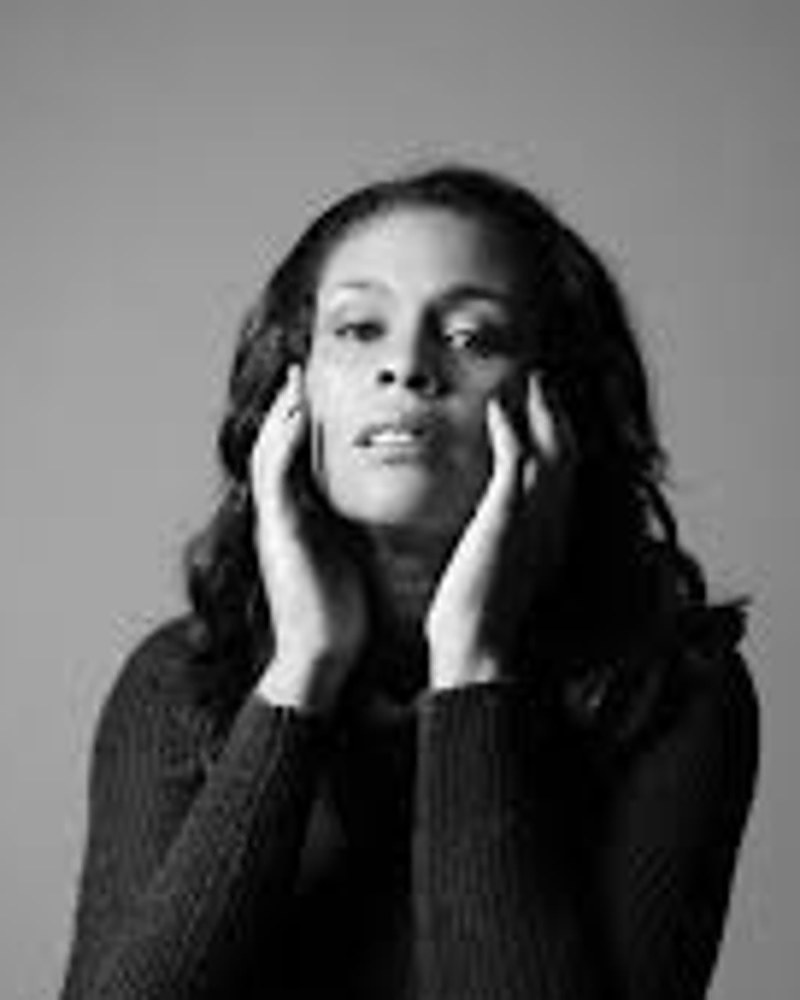
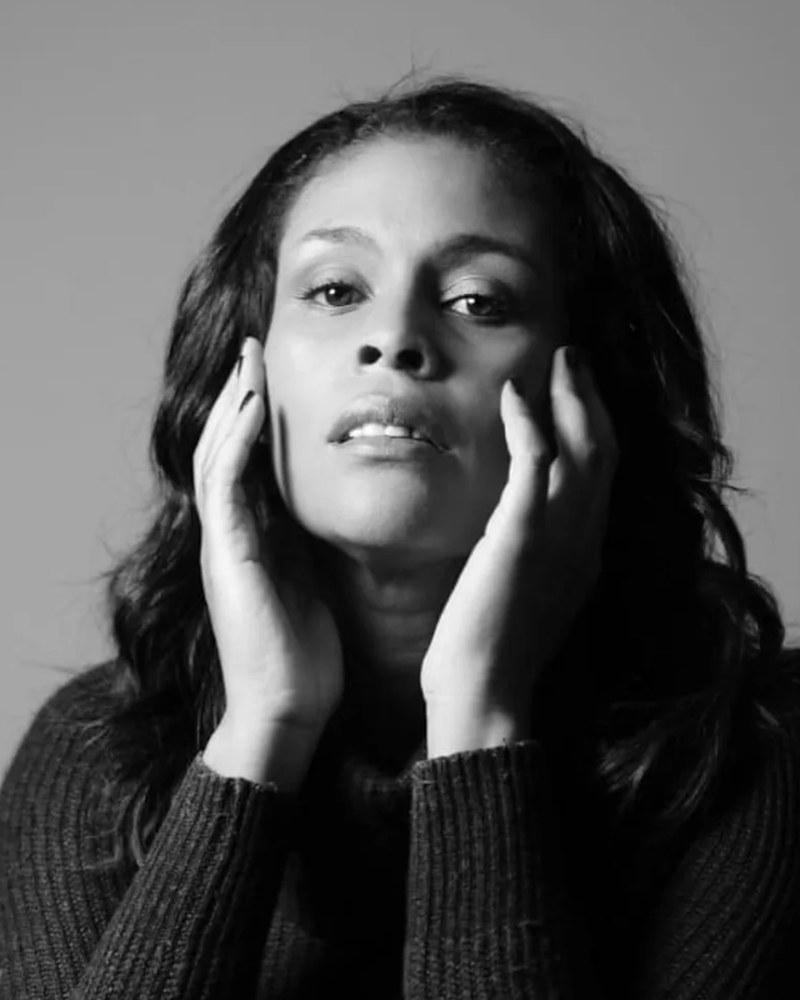
Medianeros: sharper cast photos for Alvarielys and Sheila; panoramic making frames
Claude-Session: https://claude.ai/code/session_01Ha9bAYoxGEnSstq6BWqKwK

diff --git a/projects/medianeros/index.html b/projects/medianeros/index.html
@@ -11,9 +11,9 @@
 <link rel="preconnect" href="https://fonts.googleapis.com">
 <link rel="preconnect" href="https://fonts.gstatic.com" crossorigin>
 <link rel="stylesheet" href="https://fonts.googleapis.com/css2?family=Cinzel:wght@500;600&family=Cormorant+Garamond:ital,wght@0,500;1,400;1,500&family=Cormorant+SC:wght@500;600;700&family=Jost:wght@400;500;600&display=swap">
-<link rel="stylesheet" href="../../assets/project.css?v=be0ad988">
-<script src="../../assets/i18n.js?v=be0ad988" defer></script>
-<script src="../../assets/search.js?v=be0ad988" defer></script>
+<link rel="stylesheet" href="../../assets/project.css?v=9dfbe252">
+<script src="../../assets/i18n.js?v=9dfbe252" defer></script>
+<script src="../../assets/search.js?v=9dfbe252" defer></script>
 </head>
 <body>
 <header class="nav">
@@ -56,7 +56,7 @@
 
   <section class="cast" id="cast" aria-labelledby="cast-h"><div class="wrap"><div class="sec-h"><h2 id="cast-h">Cast</h2><p>4 actors</p></div><div class="people" style="--cols:4"><figure class="person"><div class="ph"><img src="../../img/medianeros/cast-alvarielys.jpg" alt="Alvarielys Castro" loading="lazy"></div><figcaption>Alvarielys Castro<span class="as">Teresa</span></figcaption></figure><figure class="person"><div class="ph"><img src="../../img/medianeros/cast-ender.jpg" alt="Ender Camacho" loading="lazy"></div><figcaption>Ender Camacho<span class="as">Antonio</span></figcaption></figure><figure class="person"><div class="ph"><img src="../../img/medianeros/cast-pedro.jpg" alt="Pedro Armando Medina" loading="lazy"></div><figcaption>Pedro Armando Medina<span class="as">José</span></figcaption></figure><figure class="person"><div class="ph"><img src="../../img/medianeros/cast-sheila.jpg" alt="Sheila Monterola" loading="lazy"></div><figcaption>Sheila Monterola<span class="as">Luisa</span></figcaption></figure></div></div></section>
 
-  <section class="making" id="making" aria-labelledby="mk-h"><div class="wrap"><div class="sec-h"><h2 id="mk-h">The making</h2><p>From the director’s pitch</p></div><article class="ch n1"><header><span class="no" aria-hidden="true">01</span><h3>Cinematography</h3><p class="txt">Lit by candle and fire inside the hut, with nineteenth-century rural painting as the visual reference.</p></header><div class="pics"><button type="button" data-full="../../img/medianeros/bts-camera.jpg" data-alt="Cinematography · Medianeros"><img src="../../img/medianeros/bts-camera.jpg" alt="Cinematography · Medianeros" loading="lazy"></button></div></article><article class="ch n2"><header><span class="no" aria-hidden="true">02</span><h3>Frames from the shoot</h3><p class="sub">INT. Hut – Night</p></header><div class="pics"><button type="button" data-full="../../img/medianeros/frame-1.jpg" data-alt="Frames from the shoot · Medianeros"><img src="../../img/medianeros/frame-1.jpg" alt="Frames from the shoot · Medianeros" loading="lazy"></button><button type="button" data-full="../../img/medianeros/frame-3.jpg" data-alt="Frames from the shoot · Medianeros"><img src="../../img/medianeros/frame-3.jpg" alt="Frames from the shoot · Medianeros" loading="lazy"></button></div></article><article class="ch n3"><header><span class="no" aria-hidden="true">03</span><h3>Art direction</h3><p class="txt">The hut was drawn on paper and built as a set: a single room of 6 by 4.5 metres. Costume and props follow the rural Andes of 1821.</p></header><div class="pics"><button type="button" data-full="../../img/medianeros/set-build.jpg" data-alt="Art direction · Medianeros"><img src="../../img/medianeros/set-build.jpg" alt="Art direction · Medianeros" loading="lazy"></button><button type="button" data-full="../../img/medianeros/floor-plan.jpg" data-alt="Art direction · Medianeros"><img src="../../img/medianeros/floor-plan.jpg" alt="Art direction · Medianeros" loading="lazy"></button><button type="button" data-full="../../img/medianeros/costume.jpg" data-alt="Art direction · Medianeros"><img src="../../img/medianeros/costume.jpg" alt="Art direction · Medianeros" loading="lazy"></button></div></article><article class="ch solo n0"><header><span class="no" aria-hidden="true">04</span><h3>Sound and atmosphere</h3><p class="txt">An immersive atmosphere where the soundscape works as an extension of the character&#x27;s inner world. By bringing forward incidental sounds and the detail of nature, the surroundings stop being a backdrop and become a massive presence that deepens the helplessness and the fragility of the shelter against the size of the world outside.</p></header></article><article class="ch n4"><header><span class="no" aria-hidden="true">05</span><h3>Locations</h3><p class="sub">Exteriors · Lobatera and Cada del Padre, Táchira</p></header><div class="pics"><button type="button" data-full="../../img/medianeros/loc-2.jpg" data-alt="Locations · Medianeros"><img src="../../img/medianeros/loc-2.jpg" alt="Locations · Medianeros" loading="lazy"></button><button type="button" data-full="../../img/medianeros/loc-1.jpg" data-alt="Locations · Medianeros"><img src="../../img/medianeros/loc-1.jpg" alt="Locations · Medianeros" loading="lazy"></button><button type="button" data-full="../../img/medianeros/loc-3.jpg" data-alt="Locations · Medianeros"><img src="../../img/medianeros/loc-3.jpg" alt="Locations · Medianeros" loading="lazy"></button><button type="button" data-full="../../img/medianeros/loc-4.jpg" data-alt="Locations · Medianeros"><img src="../../img/medianeros/loc-4.jpg" alt="Locations · Medianeros" loading="lazy"></button></div></article></div></section>
+  <section class="making" id="making" aria-labelledby="mk-h"><div class="wrap"><div class="sec-h"><h2 id="mk-h">The making</h2><p>From the director’s pitch</p></div><article class="ch n1"><header><span class="no" aria-hidden="true">01</span><h3>Cinematography</h3><p class="txt">Lit by candle and fire inside the hut, with nineteenth-century rural painting as the visual reference.</p></header><div class="pics"><button type="button" data-full="../../img/medianeros/bts-camera.jpg" data-alt="Cinematography · Medianeros"><img src="../../img/medianeros/bts-camera.jpg" alt="Cinematography · Medianeros" loading="lazy"></button></div></article><article class="ch n2"><header><span class="no" aria-hidden="true">02</span><h3>Frames from the shoot</h3><p class="sub">INT. Hut – Night</p></header><div class="pics"><button type="button" data-full="../../img/medianeros/frame-1.jpg" data-alt="Frames from the shoot · Medianeros"><img src="../../img/medianeros/frame-1.jpg" alt="Frames from the shoot · Medianeros" loading="lazy"></button><button type="button" data-full="../../img/medianeros/frame-3.jpg" data-alt="Frames from the shoot · Medianeros"><img src="../../img/medianeros/frame-3.jpg" alt="Frames from the shoot · Medianeros" loading="lazy"></button></div></article><article class="ch n3"><header><span class="no" aria-hidden="true">03</span><h3>Art direction</h3><p class="txt">The hut was drawn on paper and built as a set: a single room of 6 by 4.5 metres. Costume and props follow the rural Andes of 1821.</p></header><div class="pics"><button type="button" data-full="../../img/medianeros/set-build.jpg" data-alt="Art direction · Medianeros"><img src="../../img/medianeros/set-build.jpg" alt="Art direction · Medianeros" loading="lazy"></button><button type="button" data-full="../../img/medianeros/floor-plan.jpg" data-alt="Art direction · Medianeros"><img src="../../img/medianeros/floor-plan.jpg" alt="Art direction · Medianeros" loading="lazy" style="object-position:50% 50%"></button><button type="button" data-full="../../img/medianeros/costume.jpg" data-alt="Art direction · Medianeros"><img src="../../img/medianeros/costume.jpg" alt="Art direction · Medianeros" loading="lazy" style="object-position:50% 30%"></button></div></article><article class="ch solo n0"><header><span class="no" aria-hidden="true">04</span><h3>Sound and atmosphere</h3><p class="txt">An immersive atmosphere where the soundscape works as an extension of the character&#x27;s inner world. By bringing forward incidental sounds and the detail of nature, the surroundings stop being a backdrop and become a massive presence that deepens the helplessness and the fragility of the shelter against the size of the world outside.</p></header></article><article class="ch n4"><header><span class="no" aria-hidden="true">05</span><h3>Locations</h3><p class="sub">Exteriors · Lobatera and Cada del Padre, Táchira</p></header><div class="pics"><button type="button" data-full="../../img/medianeros/loc-2.jpg" data-alt="Locations · Medianeros"><img src="../../img/medianeros/loc-2.jpg" alt="Locations · Medianeros" loading="lazy"></button><button type="button" data-full="../../img/medianeros/loc-1.jpg" data-alt="Locations · Medianeros"><img src="../../img/medianeros/loc-1.jpg" alt="Locations · Medianeros" loading="lazy"></button><button type="button" data-full="../../img/medianeros/loc-3.jpg" data-alt="Locations · Medianeros"><img src="../../img/medianeros/loc-3.jpg" alt="Locations · Medianeros" loading="lazy"></button><button type="button" data-full="../../img/medianeros/loc-4.jpg" data-alt="Locations · Medianeros"><img src="../../img/medianeros/loc-4.jpg" alt="Locations · Medianeros" loading="lazy"></button></div></article></div></section>
 
   <section class="pquote" aria-label="Epigraph"><div class="wrap"><blockquote data-i18n-skip data-en="“Without memory there is no identity, and without identity there is no future.”">“Without memory there is no identity, and without identity there is no future.”</blockquote><p class="by">Arturo Uslar Pietri</p></div></section>
 
@@ -94,6 +94,6 @@
 
 <dialog id="player" aria-label="Trailer"><button class="x" type="button" aria-label="Close">×</button><div class="box"><div class="frame"><iframe title="Trailer for Medianeros" allow="autoplay; encrypted-media; fullscreen" allowfullscreen src="about:blank"></iframe></div></div></dialog>
 <dialog id="viewer" aria-label="Image viewer"><button class="x" type="button" aria-label="Close">×</button><button class="arr l" type="button" aria-label="Previous image">‹</button><button class="arr r" type="button" aria-label="Next image">›</button><div class="box"><img class="shot" src="" alt=""></div></dialog>
-<script src="../../assets/project.js?v=be0ad988"></script>
+<script src="../../assets/project.js?v=9dfbe252"></script>
 </body>
 </html>

diff --git a/assets/project.css b/assets/project.css
@@ -208,24 +208,25 @@ footer{background:var(--ink);color:var(--grey);font-size:12px;padding-block:44px
 /* the making: pitch chapters */
 .story blockquote.long{font-size:clamp(24px,2.5vw,34px);line-height:1.28;max-width:40ch}
 .making{padding-block:120px 60px;border-top:1px solid var(--hair)}
-.making .ch{display:grid;grid-template-columns:minmax(0,4fr) minmax(0,8fr);gap:56px;align-items:start;padding-block:56px;border-top:1px solid var(--hair)}
+.making .ch{display:grid;grid-template-columns:minmax(0,5fr) minmax(0,7fr);gap:28px 56px;align-items:end;padding-block:64px;border-top:1px solid var(--hair)}
 .making .ch:first-of-type{border-top:0;padding-top:0}
-.making header{display:grid;gap:14px;position:sticky;top:110px}
+.making header{display:contents}
+.making header > .no,.making header > h3,.making header > .sub{grid-column:1}
+.making header > .txt{grid-column:2;grid-row:1 / span 3;align-self:end;max-width:56ch}
 .making .no{font-size:11px;font-weight:600;letter-spacing:.24em;color:var(--red)}
 .making h3{margin:0;font-family:var(--poster);font-weight:500;font-size:clamp(24px,2.4vw,34px);letter-spacing:.1em;text-transform:uppercase;line-height:1.05}
 .making .sub{margin:0;font-size:12px;letter-spacing:.16em;text-transform:uppercase;color:var(--grey)}
-.making .txt{margin:6px 0 0;font-family:var(--voice);font-size:clamp(20px,1.7vw,24px);line-height:1.4;color:#d9d9de}
-.making .ch.solo{grid-template-columns:minmax(0,1fr)}
-.making .ch.solo header{position:static;max-width:860px}
-.making .ch.solo .txt{font-style:italic;font-size:clamp(24px,2.6vw,36px);line-height:1.3;color:var(--white)}
-.making .pics{display:grid;grid-template-columns:1fr 1fr;gap:12px}
-.making .pics button{padding:0;border:0;background:var(--tile);cursor:zoom-in;overflow:hidden;aspect-ratio:4/3}
+.making .txt{margin:0;font-family:var(--voice);font-size:clamp(20px,1.7vw,24px);line-height:1.4;color:#d9d9de}
+.making .ch.solo .txt{font-style:italic;font-size:clamp(22px,2.2vw,32px);line-height:1.32;color:var(--white)}
+/* the frames run wider than the text column, in scope */
+.making .pics{grid-column:1 / -1;display:grid;grid-template-columns:1fr 1fr;gap:10px;margin-top:8px;margin-inline:calc(-1 * min(6vw, 90px))}
+.making .pics button{padding:0;border:0;background:var(--tile);cursor:zoom-in;overflow:hidden;aspect-ratio:2/1}
 .making .pics img{width:100%;height:100%;object-fit:cover;display:block;transition:transform .8s cubic-bezier(.2,.7,.2,1),filter .5s}
 .making .pics button:hover img{transform:scale(1.03)}
 .making .n1 .pics{grid-template-columns:1fr}
-.making .n1 .pics button{aspect-ratio:16/9}
-.making .n3 .pics button:first-child,.making .n4 .pics button:first-child{grid-column:1/-1;aspect-ratio:16/8}
+.making .n1 .pics button,.making .n3 .pics button:first-child,.making .n4 .pics button:first-child{grid-column:1/-1;aspect-ratio:2.39/1}
 .making .n4 .pics{grid-template-columns:1fr 1fr 1fr}
+.making .n4 .pics button:not(:first-child){aspect-ratio:16/9}
 .pquote{padding-block:140px;text-align:center;background:radial-gradient(60% 80% at 50% 50%,rgba(255,140,40,.08),transparent 70%)}
 .pquote blockquote{margin:0 auto;max-width:22ch;font-family:var(--voice);font-style:italic;font-size:clamp(30px,4.2vw,58px);line-height:1.15}
 .pquote .by{margin:28px 0 0;font-size:12px;letter-spacing:.24em;text-transform:uppercase;color:var(--red)}
@@ -266,8 +267,10 @@ img.px{transform:translateY(var(--py,0)) scale(1.14);will-change:transform}
 .mo .pquote .w.on{opacity:1}
 @media (prefers-reduced-motion:reduce){img.px{transform:none}.p-hero .bg img{animation:none}}
 @media (max-width:900px){
-  .making .ch{grid-template-columns:1fr;gap:28px;padding-block:44px}
-  .making header{position:static}
+  .making .ch{grid-template-columns:1fr;gap:16px;padding-block:44px}
+  .making header > .txt{grid-column:1;grid-row:auto;margin-top:8px}
+  .making .pics{margin-inline:calc(-1 * var(--gl)) calc(-1 * var(--gr));gap:6px}
+  .making .pics button{aspect-ratio:16/9}
   .making .n4 .pics{grid-template-columns:1fr 1fr}
   .pquote{padding-block:100px}
 }

diff --git a/projects/nothing-i-havent-dreamt-of/index.html b/projects/nothing-i-havent-dreamt-of/index.html
@@ -11,9 +11,9 @@
 <link rel="preconnect" href="https://fonts.googleapis.com">
 <link rel="preconnect" href="https://fonts.gstatic.com" crossorigin>
 <link rel="stylesheet" href="https://fonts.googleapis.com/css2?family=Cinzel:wght@500;600&family=Cormorant+Garamond:ital,wght@0,500;1,400;1,500&family=Cormorant+SC:wght@500;600;700&family=Jost:wght@400;500;600&display=swap">
-<link rel="stylesheet" href="../../assets/project.css?v=be0ad988">
-<script src="../../assets/i18n.js?v=be0ad988" defer></script>
-<script src="../../assets/search.js?v=be0ad988" defer></script>
+<link rel="stylesheet" href="../../assets/project.css?v=9dfbe252">
+<script src="../../assets/i18n.js?v=9dfbe252" defer></script>
+<script src="../../assets/search.js?v=9dfbe252" defer></script>
 </head>
 <body>
 <header class="nav">
@@ -114,6 +114,6 @@
 
 <dialog id="player" aria-label="Trailer"><button class="x" type="button" aria-label="Close">×</button><div class="box"><div class="frame"><iframe title="Trailer for Nothing I Haven&#x27;t Dreamt Of" allow="autoplay; encrypted-media; fullscreen" allowfullscreen src="about:blank"></iframe></div></div></dialog>
 <dialog id="viewer" aria-label="Image viewer"><button class="x" type="button" aria-label="Close">×</button><button class="arr l" type="button" aria-label="Previous image">‹</button><button class="arr r" type="button" aria-label="Next image">›</button><div class="box"><img class="shot" src="" alt=""></div></dialog>
-<script src="../../assets/project.js?v=be0ad988"></script>
+<script src="../../assets/project.js?v=9dfbe252"></script>
 </body>
 </html>

diff --git a/projects/the-woman-in-the-other-room/index.html b/projects/the-woman-in-the-other-room/index.html
@@ -11,9 +11,9 @@
 <link rel="preconnect" href="https://fonts.googleapis.com">
 <link rel="preconnect" href="https://fonts.gstatic.com" crossorigin>
 <link rel="stylesheet" href="https://fonts.googleapis.com/css2?family=Cinzel:wght@500;600&family=Cormorant+Garamond:ital,wght@0,500;1,400;1,500&family=Cormorant+SC:wght@500;600;700&family=Jost:wght@400;500;600&display=swap">
-<link rel="stylesheet" href="../../assets/project.css?v=be0ad988">
-<script src="../../assets/i18n.js?v=be0ad988" defer></script>
-<script src="../../assets/search.js?v=be0ad988" defer></script>
+<link rel="stylesheet" href="../../assets/project.css?v=9dfbe252">
+<script src="../../assets/i18n.js?v=9dfbe252" defer></script>
+<script src="../../assets/search.js?v=9dfbe252" defer></script>
 </head>
 <body>
 <header class="nav">
@@ -94,6 +94,6 @@
 
 <dialog id="player" aria-label="Trailer"><button class="x" type="button" aria-label="Close">×</button><div class="box"><div class="frame"><iframe title="Trailer for The Woman in the Other Room" allow="autoplay; encrypted-media; fullscreen" allowfullscreen src="about:blank"></iframe></div></div></dialog>
 <dialog id="viewer" aria-label="Image viewer"><button class="x" type="button" aria-label="Close">×</button><button class="arr l" type="button" aria-label="Previous image">‹</button><button class="arr r" type="button" aria-label="Next image">›</button><div class="box"><img class="shot" src="" alt=""></div></dialog>
-<script src="../../assets/project.js?v=be0ad988"></script>
+<script src="../../assets/project.js?v=9dfbe252"></script>
 </body>
 </html>

diff --git a/projects/beneath-the-enchanted-tree/index.html b/projects/beneath-the-enchanted-tree/index.html
@@ -11,9 +11,9 @@
 <link rel="preconnect" href="https://fonts.googleapis.com">
 <link rel="preconnect" href="https://fonts.gstatic.com" crossorigin>
 <link rel="stylesheet" href="https://fonts.googleapis.com/css2?family=Cinzel:wght@500;600&family=Cormorant+Garamond:ital,wght@0,500;1,400;1,500&family=Cormorant+SC:wght@500;600;700&family=Jost:wght@400;500;600&display=swap">
-<link rel="stylesheet" href="../../assets/project.css?v=be0ad988">
-<script src="../../assets/i18n.js?v=be0ad988" defer></script>
-<script src="../../assets/search.js?v=be0ad988" defer></script>
+<link rel="stylesheet" href="../../assets/project.css?v=9dfbe252">
+<script src="../../assets/i18n.js?v=9dfbe252" defer></script>
+<script src="../../assets/search.js?v=9dfbe252" defer></script>
 </head>
 <body>
 <header class="nav">
@@ -94,6 +94,6 @@
 
 <dialog id="player" aria-label="Trailer"><button class="x" type="button" aria-label="Close">×</button><div class="box"><div class="frame"><iframe title="Trailer for Beneath the Enchanted Tree" allow="autoplay; encrypted-media; fullscreen" allowfullscreen src="about:blank"></iframe></div></div></dialog>
 <dialog id="viewer" aria-label="Image viewer"><button class="x" type="button" aria-label="Close">×</button><button class="arr l" type="button" aria-label="Previous image">‹</button><button class="arr r" type="button" aria-label="Next image">›</button><div class="box"><img class="shot" src="" alt=""></div></dialog>
-<script src="../../assets/project.js?v=be0ad988"></script>
+<script src="../../assets/project.js?v=9dfbe252"></script>
 </body>
 </html>

diff --git a/projects/apres-la-femme-fatale/index.html b/projects/apres-la-femme-fatale/index.html
@@ -11,9 +11,9 @@
 <link rel="preconnect" href="https://fonts.googleapis.com">
 <link rel="preconnect" href="https://fonts.gstatic.com" crossorigin>
 <link rel="stylesheet" href="https://fonts.googleapis.com/css2?family=Cinzel:wght@500;600&family=Cormorant+Garamond:ital,wght@0,500;1,400;1,500&family=Cormorant+SC:wght@500;600;700&family=Jost:wght@400;500;600&display=swap">
-<link rel="stylesheet" href="../../assets/project.css?v=be0ad988">
-<script src="../../assets/i18n.js?v=be0ad988" defer></script>
-<script src="../../assets/search.js?v=be0ad988" defer></script>
+<link rel="stylesheet" href="../../assets/project.css?v=9dfbe252">
+<script src="../../assets/i18n.js?v=9dfbe252" defer></script>
+<script src="../../assets/search.js?v=9dfbe252" defer></script>
 </head>
 <body>
 <header class="nav">
@@ -94,6 +94,6 @@
 
 <dialog id="player" aria-label="Trailer"><button class="x" type="button" aria-label="Close">×</button><div class="box"><div class="frame"><iframe title="Trailer for Après la Femme Fatale" allow="autoplay; encrypted-media; fullscreen" allowfullscreen src="about:blank"></iframe></div></div></dialog>
 <dialog id="viewer" aria-label="Image viewer"><button class="x" type="button" aria-label="Close">×</button><button class="arr l" type="button" aria-label="Previous image">‹</button><button class="arr r" type="button" aria-label="Next image">›</button><div class="box"><img class="shot" src="" alt=""></div></dialog>
-<script src="../../assets/project.js?v=be0ad988"></script>
+<script src="../../assets/project.js?v=9dfbe252"></script>
 </body>
 </html>

diff --git a/projects/runway-night-heroines/index.html b/projects/runway-night-heroines/index.html
@@ -11,9 +11,9 @@
 <link rel="preconnect" href="https://fonts.googleapis.com">
 <link rel="preconnect" href="https://fonts.gstatic.com" crossorigin>
 <link rel="stylesheet" href="https://fonts.googleapis.com/css2?family=Cinzel:wght@500;600&family=Cormorant+Garamond:ital,wght@0,500;1,400;1,500&family=Cormorant+SC:wght@500;600;700&family=Jost:wght@400;500;600&display=swap">
-<link rel="stylesheet" href="../../assets/project.css?v=be0ad988">
-<script src="../../assets/i18n.js?v=be0ad988" defer></script>
-<script src="../../assets/search.js?v=be0ad988" defer></script>
+<link rel="stylesheet" href="../../assets/project.css?v=9dfbe252">
+<script src="../../assets/i18n.js?v=9dfbe252" defer></script>
+<script src="../../assets/search.js?v=9dfbe252" defer></script>
 </head>
 <body>
 <header class="nav">
@@ -94,6 +94,6 @@
 
 <dialog id="player" aria-label="Trailer"><button class="x" type="button" aria-label="Close">×</button><div class="box"><div class="frame"><iframe title="Trailer for Runway Night: Heroines" allow="autoplay; encrypted-media; fullscreen" allowfullscreen src="about:blank"></iframe></div></div></dialog>
 <dialog id="viewer" aria-label="Image viewer"><button class="x" type="button" aria-label="Close">×</button><button class="arr l" type="button" aria-label="Previous image">‹</button><button class="arr r" type="button" aria-label="Next image">›</button><div class="box"><img class="shot" src="" alt=""></div></dialog>
-<script src="../../assets/project.js?v=be0ad988"></script>
+<script src="../../assets/project.js?v=9dfbe252"></script>
 </body>
 </html>

diff --git a/projects/big-band-banana/index.html b/projects/big-band-banana/index.html
@@ -11,9 +11,9 @@
 <link rel="preconnect" href="https://fonts.googleapis.com">
 <link rel="preconnect" href="https://fonts.gstatic.com" crossorigin>
 <link rel="stylesheet" href="https://fonts.googleapis.com/css2?family=Cinzel:wght@500;600&family=Cormorant+Garamond:ital,wght@0,500;1,400;1,500&family=Cormorant+SC:wght@500;600;700&family=Jost:wght@400;500;600&display=swap">
-<link rel="stylesheet" href="../../assets/project.css?v=be0ad988">
-<script src="../../assets/i18n.js?v=be0ad988" defer></script>
-<script src="../../assets/search.js?v=be0ad988" defer></script>
+<link rel="stylesheet" href="../../assets/project.css?v=9dfbe252">
+<script src="../../assets/i18n.js?v=9dfbe252" defer></script>
+<script src="../../assets/search.js?v=9dfbe252" defer></script>
 </head>
 <body>
 <header class="nav">
@@ -94,6 +94,6 @@
 
 <dialog id="player" aria-label="Trailer"><button class="x" type="button" aria-label="Close">×</button><div class="box"><div class="frame"><iframe title="Trailer for Big Band Banana" allow="autoplay; encrypted-media; fullscreen" allowfullscreen src="about:blank"></iframe></div></div></dialog>
 <dialog id="viewer" aria-label="Image viewer"><button class="x" type="button" aria-label="Close">×</button><button class="arr l" type="button" aria-label="Previous image">‹</button><button class="arr r" type="button" aria-label="Next image">›</button><div class="box"><img class="shot" src="" alt=""></div></dialog>
-<script src="../../assets/project.js?v=be0ad988"></script>
+<script src="../../assets/project.js?v=9dfbe252"></script>
 </body>
 </html>

diff --git a/projects/loving-as-we-do/index.html b/projects/loving-as-we-do/index.html
@@ -11,9 +11,9 @@
 <link rel="preconnect" href="https://fonts.googleapis.com">
 <link rel="preconnect" href="https://fonts.gstatic.com" crossorigin>
 <link rel="stylesheet" href="https://fonts.googleapis.com/css2?family=Cinzel:wght@500;600&family=Cormorant+Garamond:ital,wght@0,500;1,400;1,500&family=Cormorant+SC:wght@500;600;700&family=Jost:wght@400;500;600&display=swap">
-<link rel="stylesheet" href="../../assets/project.css?v=be0ad988">
-<script src="../../assets/i18n.js?v=be0ad988" defer></script>
-<script src="../../assets/search.js?v=be0ad988" defer></script>
+<link rel="stylesheet" href="../../assets/project.css?v=9dfbe252">
+<script src="../../assets/i18n.js?v=9dfbe252" defer></script>
+<script src="../../assets/search.js?v=9dfbe252" defer></script>
 </head>
 <body>
 <header class="nav">
@@ -94,6 +94,6 @@
 
 <dialog id="player" aria-label="Trailer"><button class="x" type="button" aria-label="Close">×</button><div class="box"><div class="frame"><iframe title="Trailer for Loving As We Do" allow="autoplay; encrypted-media; fullscreen" allowfullscreen src="about:blank"></iframe></div></div></dialog>
 <dialog id="viewer" aria-label="Image viewer"><button class="x" type="button" aria-label="Close">×</button><button class="arr l" type="button" aria-label="Previous image">‹</button><button class="arr r" type="button" aria-label="Next image">›</button><div class="box"><img class="shot" src="" alt=""></div></dialog>
-<script src="../../assets/project.js?v=be0ad988"></script>
+<script src="../../assets/project.js?v=9dfbe252"></script>
 </body>
 </html>

diff --git a/projects/in-silence/index.html b/projects/in-silence/index.html
@@ -11,9 +11,9 @@
 <link rel="preconnect" href="https://fonts.googleapis.com">
 <link rel="preconnect" href="https://fonts.gstatic.com" crossorigin>
 <link rel="stylesheet" href="https://fonts.googleapis.com/css2?family=Cinzel:wght@500;600&family=Cormorant+Garamond:ital,wght@0,500;1,400;1,500&family=Cormorant+SC:wght@500;600;700&family=Jost:wght@400;500;600&display=swap">
-<link rel="stylesheet" href="../../assets/project.css?v=be0ad988">
-<script src="../../assets/i18n.js?v=be0ad988" defer></script>
-<script src="../../assets/search.js?v=be0ad988" defer></script>
+<link rel="stylesheet" href="../../assets/project.css?v=9dfbe252">
+<script src="../../assets/i18n.js?v=9dfbe252" defer></script>
+<script src="../../assets/search.js?v=9dfbe252" defer></script>
 </head>
 <body>
 <header class="nav">
@@ -94,6 +94,6 @@
 
 <dialog id="player" aria-label="Trailer"><button class="x" type="button" aria-label="Close">×</button><div class="box"><div class="frame"><iframe title="Trailer for In Silence" allow="autoplay; encrypted-media; fullscreen" allowfullscreen src="about:blank"></iframe></div></div></dialog>
 <dialog id="viewer" aria-label="Image viewer"><button class="x" type="button" aria-label="Close">×</button><button class="arr l" type="button" aria-label="Previous image">‹</button><button class="arr r" type="button" aria-label="Next image">›</button><div class="box"><img class="shot" src="" alt=""></div></dialog>
-<script src="../../assets/project.js?v=be0ad988"></script>
+<script src="../../assets/project.js?v=9dfbe252"></script>
 </body>
 </html>

diff --git a/projects/extasis/index.html b/projects/extasis/index.html
@@ -11,9 +11,9 @@
 <link rel="preconnect" href="https://fonts.googleapis.com">
 <link rel="preconnect" href="https://fonts.gstatic.com" crossorigin>
 <link rel="stylesheet" href="https://fonts.googleapis.com/css2?family=Cinzel:wght@500;600&family=Cormorant+Garamond:ital,wght@0,500;1,400;1,500&family=Cormorant+SC:wght@500;600;700&family=Jost:wght@400;500;600&display=swap">
-<link rel="stylesheet" href="../../assets/project.css?v=be0ad988">
-<script src="../../assets/i18n.js?v=be0ad988" defer></script>
-<script src="../../assets/search.js?v=be0ad988" defer></script>
+<link rel="stylesheet" href="../../assets/project.css?v=9dfbe252">
+<script src="../../assets/i18n.js?v=9dfbe252" defer></script>
+<script src="../../assets/search.js?v=9dfbe252" defer></script>
 </head>
 <body>
 <header class="nav">
@@ -94,6 +94,6 @@
 
 <dialog id="player" aria-label="Trailer"><button class="x" type="button" aria-label="Close">×</button><div class="box"><div class="frame"><iframe title="Trailer for Extasis" allow="autoplay; encrypted-media; fullscreen" allowfullscreen src="about:blank"></iframe></div></div></dialog>
 <dialog id="viewer" aria-label="Image viewer"><button class="x" type="button" aria-label="Close">×</button><button class="arr l" type="button" aria-label="Previous image">‹</button><button class="arr r" type="button" aria-label="Next image">›</button><div class="box"><img class="shot" src="" alt=""></div></dialog>
-<script src="../../assets/project.js?v=be0ad988"></script>
+<script src="../../assets/project.js?v=9dfbe252"></script>
 </body>
 </html>

diff --git a/projects/deluge/index.html b/projects/deluge/index.html
@@ -11,9 +11,9 @@
 <link rel="preconnect" href="https://fonts.googleapis.com">
 <link rel="preconnect" href="https://fonts.gstatic.com" crossorigin>
 <link rel="stylesheet" href="https://fonts.googleapis.com/css2?family=Cinzel:wght@500;600&family=Cormorant+Garamond:ital,wght@0,500;1,400;1,500&family=Cormorant+SC:wght@500;600;700&family=Jost:wght@400;500;600&display=swap">
-<link rel="stylesheet" href="../../assets/project.css?v=be0ad988">
-<script src="../../assets/i18n.js?v=be0ad988" defer></script>
-<script src="../../assets/search.js?v=be0ad988" defer></script>
+<link rel="stylesheet" href="../../assets/project.css?v=9dfbe252">
+<script src="../../assets/i18n.js?v=9dfbe252" defer></script>
+<script src="../../assets/search.js?v=9dfbe252" defer></script>
 </head>
 <body>
 <header class="nav">
@@ -94,6 +94,6 @@
 
 <dialog id="player" aria-label="Trailer"><button class="x" type="button" aria-label="Close">×</button><div class="box"><div class="frame"><iframe title="Trailer for Deluge" allow="autoplay; encrypted-media; fullscreen" allowfullscreen src="about:blank"></iframe></div></div></dialog>
 <dialog id="viewer" aria-label="Image viewer"><button class="x" type="button" aria-label="Close">×</button><button class="arr l" type="button" aria-label="Previous image">‹</button><button class="arr r" type="button" aria-label="Next image">›</button><div class="box"><img class="shot" src="" alt=""></div></dialog>
-<script src="../../assets/project.js?v=be0ad988"></script>
+<script src="../../assets/project.js?v=9dfbe252"></script>
 </body>
 </html>
